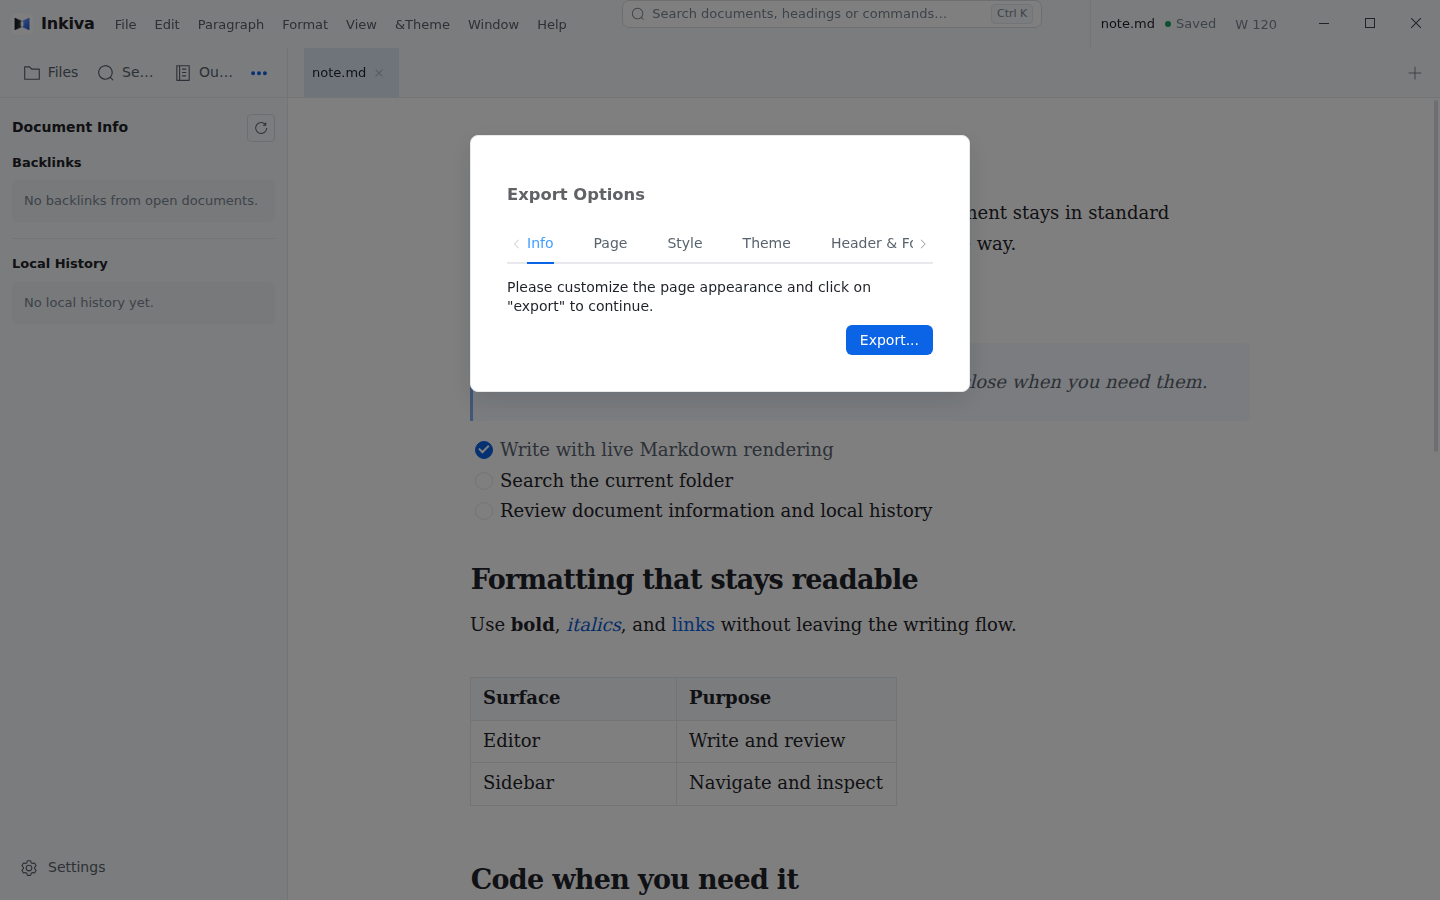
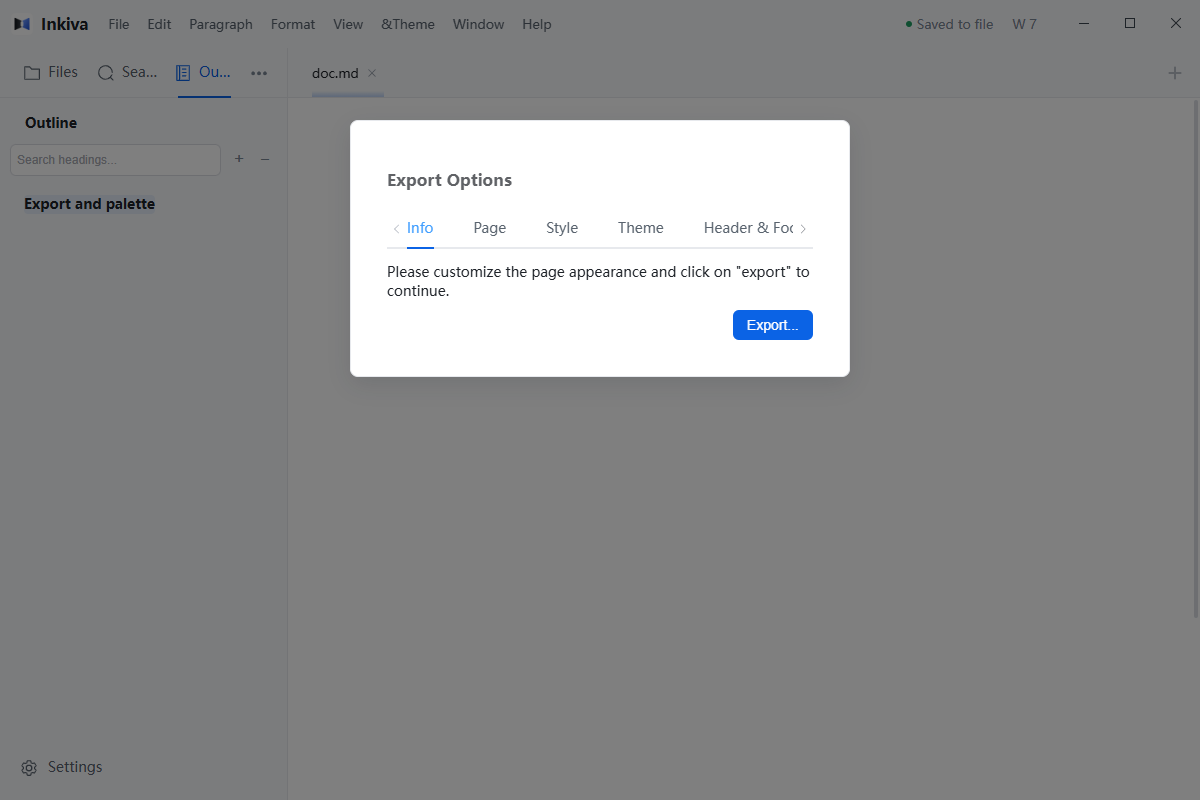
docs: complete issue 276 real Windows screenshot and interaction acceptance

diff --git a/packages/website/content/docs/end-user/BASICS.md b/packages/website/content/docs/end-user/BASICS.md
@@ -4,7 +4,7 @@
 
 Inkiva is a document-first Markdown editor. It opens ordinary CommonMark/GFM files and folders, and its preview editor keeps most Markdown punctuation out of the way while you write. When the application starts without a restored session, the welcome surface offers **Recent Documents**, **New File**, and **Open file**.
 
-![Inkiva welcome surface with Recent Documents, New File, and Open file](../assets/inkiva-default.png)
+![Real Windows Inkiva v0.6.0 welcome surface with the recent-folder and file-opening controls](../assets/inkiva-default.png)
 
 Use **Search** in the sidebar for workspace content, or **Quick Open** (<kbd>CmdOrCtrl</kbd>+<kbd>P</kbd>) to find documents in the opened folder. In an empty paragraph, type `/` to open the quick-insert menu; choose a heading, list, quote, table, or another supported block.
 
@@ -27,7 +27,7 @@ The Files, Search, and Document Info panels are shown below.
 
 ![Inkiva Files sidebar showing a folder tree and Opened Files](../assets/inkiva-files.png)
 
-![Inkiva Search sidebar for searching the opened folder](../assets/inkiva-search.png)
+![Real Windows Inkiva v0.6.0 Search sidebar with an active Markdown document](../assets/inkiva-search.png)
 
 ![Actual Windows v0.6.0 Document Info sidebar showing a backlink, a missing Markdown target and Local History](../assets/inkiva-document-info.png)
 
@@ -37,7 +37,9 @@ Each open document can appear in a tab. Drag tabs to reorder them, use the tab c
 
 ### Quick Open
 
-**Quick Open** (<kbd>CmdOrCtrl</kbd>+<kbd>P</kbd>) finds Markdown files in the opened folder and already-open documents. The **Search** sidebar supports in-folder content searching, while **Outline** navigates headings in the active document.
+**Quick Open** (<kbd>CmdOrCtrl</kbd>+<kbd>P</kbd>) finds Markdown files in the opened folder and already-open documents. The **Search** sidebar supports in-folder content searching, while **Outline** navigates headings in the active document. For searchable editor commands, use **View → Command Palette**; the previous titlebar search box is no longer a reliable entry point in the Windows v0.6.0 UI.
+
+![Real Windows v0.6.0 Command Palette opened from View, listing available file and editor commands](../assets/inkiva-command-palette.png)
 
 ### Editor modes
 
@@ -85,7 +87,11 @@ For detailed editing and repair steps, see [Editing in depth](EDITING.md).
 
 ## Outline, document history and recovery
 
-The **Outline** sidebar follows headings in the active document. Click a heading to navigate, or use keyboard focus and arrow-key navigation; press <kbd>Enter</kbd> to activate the focused heading. On long documents, only the relevant outline rows may be mounted at once, but keyboard navigation remains available without moving the document until you choose a heading.
+The **Outline** sidebar follows headings in the active document. Click a heading to navigate, or use keyboard focus and arrow-key navigation; press <kbd>Enter</kbd> to activate the focused heading. On long documents, only the relevant outline rows may be mounted at once. Focus the **Outline tree container** (the keyboard focus owner), then use **Arrow Up/Down**, **Home/End**, and **Enter**. Focusing a virtualized individual heading row is not equivalent to keyboard-focusing the tree itself. In the tested 360-heading document, **End** and **Arrow Up** revealed the final rows while the editor remained at scroll position 0; **Enter** then navigated to the chosen heading.
+
+![Real Windows v0.6.0 outline keyboard focus on a heading near the end of a 360-heading document, while the editor stays at the beginning](../assets/inkiva-outline-keyboard.png)
+
+![Real Windows v0.6.0 document scrolled to a distant heading only after activating it with Enter](../assets/inkiva-outline-activated.png)
 
 **More → Document Info → Local History** lets you inspect earlier local snapshots and recover content using the available preview, copy, or explicitly confirmed restore flow. Unsaved-work and crash-recovery prompts must be reviewed before replacing existing content. Local History and recovery protect local files; they are not cloud backup or multi-device sync.
 
@@ -101,4 +107,4 @@ Inkiva includes **Inkiva Light**, **Inkiva Dark**, and **Inkiva Paper**. Choose 
 
 Open **File → Preferences** or the settings control at the bottom of the sidebar. Preferences can also be edited in `preferences.json` in the [application data directory](APPLICATION_DATA_DIRECTORY.md). The settings window groups general, theme, editor, and spelling options.
 
-![Inkiva Preferences window on the General page](../assets/inkiva-settings.png)
+![Real Windows v0.6.0 Preferences dialog on the General page](../assets/inkiva-settings.png)

diff --git a/docs/engineering/ISSUE-276-DESKTOP-SCREENSHOT-AUDIT.md b/docs/engineering/ISSUE-276-DESKTOP-SCREENSHOT-AUDIT.md
@@ -66,3 +66,16 @@ Don't infer fidelity from the presence of PNG files or a green build. The old sc
 - **Workflow lesson:** the squash merge message itself inadvertently repeated the literal `[skip ci]` phrase while describing the follow-up, suppressing the intended push-triggered website deploy. The existing official website workflow was manually dispatched on `develop`, with its full checks intact; do not put CI-skip tokens in the final squash message when public site changes must be deployed.
 - **Open issue confirmation:** [#276](https://github.com/Bulls1986/Inkiva/issues/276) remains **open**, with progress comments recording evidence and remaining gaps. This PR's release does **not** imply full issue acceptance, full macOS visual qualification, confirmed saved/reopened table, completed missing-image recovery, or proven keyboard focus/no-jump in the virtualized outline.
 - **Resume:** complete the still-open real-Electron/visual items in the preceding section; replace additional website PNGs only after directly verifying staleness, and repeat the applicable docs/build/PR gates for any future changes.
+
+
+## Stage 5 — Remaining packaged Windows v0.6.0 acceptance (2026-10-30)
+
+- Environment: real installed Windows x64 Inkiva v0.6.0, same exe/asar SHA-256 above, isolated temporary profiles/files, Playwright Electron screenshots. No mockups, no private user files.
+- **Table PASS**: Shift+Enter in `Alpha` followed by `Line 2` yielded `Alpha<br>Line 2`; status became `Saved to file`; disk Markdown contained the break, and a second app process reopened the table with intact content. Earlier recovery-only uncertainty is resolved.
+- **Image PASS**: `./missing.png` showed `Load image failed`; clicking the actual image exposed `Embed Image`. Replacing the path with a real `./correct.png` reached `mu-image-success` and saved the corrected Markdown; no stranded loading placeholder.
+- **Outline PASS**: genuine 360-heading file; the focus owner is `.toc-virtualized-tree` (`role=tree`, `tabindex=0`), not virtual `treeitem` projections. With the tree focused, `End` and `ArrowUp` moved outline scroll 0 → 11718 while editor scroll remained 0. `Enter` then deliberately navigated the document to headings 354–360. Genuine screenshots capture before/after. Earlier row-focused test was an invalid driver, not product evidence.
+- **Menus PASS**: actual View → Command Palette opened searchable commands; File → Export → Export as PDF opened the real Export Options dialog with Info, Page, Style, Theme, Header & Footer, Table of Contents. Premature native menu invocation before editor initialization was non-evidence, corrected by waiting for readiness.
+- **Theme/Preferences PASS**: actual Theme menu changed Inkiva Dark and Paper; General, Editor, Theme and Spelling were captured as real Preferences windows. Prior Stage 4 already established Files, Search, Document Info, Backlinks, missing/partial/repair, and table context.
+- **Platform captions**: Windows English UI was actually exercised; macOS Command/Option differences were checked against existing OS-specific keybinding manuals, not represented as native macOS execution. Windows **and/or** macOS is the issue's platform capture requirement.
+- **Assets in this phase**: refreshed 10 genuine screenshots (welcome, Search, command palette, Export, Dark, Paper, Settings Editor/Theme/Spelling, table after save/reopen), added 4 real screenshots (Outline before/after Enter, image failure/relink); previous Stage 4 real captures remain. PNG files were only losslessly re-encoded, not AI-generated or retouched.
+- **Pending release**: website 52-page docs verification, focused tests/build, latest PR CI, squash merge, and GitHub Pages deploy. Retain Issue #276 OPEN until publication evidence has been written back; do not call a PR alone final closure.

diff --git a/packages/website/content/docs/end-user/EDITING.md b/packages/website/content/docs/end-user/EDITING.md
@@ -14,7 +14,7 @@ Inkiva updates the rendered result as you edit. The active appearance controls t
 
 In an empty paragraph, type `/` to open the quick-insert menu. Search by continuing to type, navigate with the arrow keys, and press <kbd>Enter</kbd> to insert the selected block. The menu can create headings, paragraphs, lists, task lists, quotes, tables, code blocks, front matter, thematic breaks, and supported diagram blocks.
 
-To locate a document, use **Quick Open** (<kbd>CmdOrCtrl</kbd>+<kbd>P</kbd>). Use the application's **Paragraph**, **Format** and **View** menus for their respective editing commands.
+To locate a document, use **Quick Open** (<kbd>CmdOrCtrl</kbd>+<kbd>P</kbd>). Use **View → Command Palette** to search commands such as **Export File**, **Source Code Mode**, and **Change Encoding**. The application's **Paragraph** and **Format** menus remain direct alternatives.
 
 The paragraph menu also exposes actions such as **Turn Into**, duplicate, create paragraph, and delete paragraph. These actions operate on the current block or selection.
 
@@ -32,9 +32,9 @@ Use the quick-insert menu or **Paragraph → Table** to create a Markdown table.
 
 ![Actual Windows v0.6.0 table-cell context menu showing explicit row/column actions](../assets/inkiva-table-context.png)
 
-The following screenshot captures the live editor immediately after a hard break; **it is not evidence of a completed disk save**. Save and verify the file when testing document persistence.
+The following real Windows v0.6.0 screenshot was captured **after saving, closing and reopening the Markdown file**. The test verified the on-disk cell text `Alpha<br>Line 2` and the reopened rendered table; the earlier in-editor caret assertion separately confirmed a connected text node and a visible caret rectangle.
 
-![Actual Windows v0.6.0 table cell immediately after Shift+Enter with an in-editor hard break and visible caret](../assets/inkiva-table-hardbreak.png)
+![Real Windows v0.6.0 table reopened with a persisted Shift+Enter hard break after verifying saved Markdown on disk](../assets/inkiva-table-hardbreak.png)
 
 ## Images
 

diff --git a/packages/website/content/docs/end-user/IMAGES.md b/packages/website/content/docs/end-user/IMAGES.md
@@ -30,7 +30,13 @@ For imported files, Inkiva uses collision-safe creation so repeated pastes of si
 
 Select an image in the formatted editor to access its existing image controls. Depending on the selected image, you can change its alternative text/title, replace its source using **Choose Image**, or drag the resize control. A missing image can be selected to open the edit/relink tool.
 
-- To **relink** a missing image, select a valid replacement and confirm. A failed import leaves the original Markdown intact and provides feedback so you can retry.
+- To **relink** a missing image, select the failed image. In the tested Windows v0.6.0 interface, click its image placeholder, select **Embed Image**, replace the existing relative path and confirm **Embed Image**. Other insertion modes may expose a **Choose Image** control. A failed import leaves the original Markdown intact and provides feedback so you can retry.
+
+![Real Windows v0.6.0 missing-image state showing the Load image failed placeholder and Embed Image replacement controls](../assets/inkiva-image-failure.png)
+
+![Real Windows v0.6.0 image successfully relinked to an existing local file with the updated relative Markdown path](../assets/inkiva-image-relinked.png)
+
+An isolated real-app test changed `![Broken image](./missing.png)` to `![Broken image](./correct.png)`; the image entered `mu-image-success` state and the new Markdown source was saved to disk without a permanent loading placeholder.
 - Changing only alt text or title does not require re-importing or duplicating an unchanged local file.
 - An in-progress replacement should not overwrite a newer edit made while the image operation was running.
 - Switch to **View → Source Code Mode** to inspect or edit the exact `![alt](path)` syntax if the visual preview does not resolve.

diff --git a/packages/website/content/docs/README.md b/packages/website/content/docs/README.md
@@ -4,7 +4,7 @@ Welcome to the end-user documentation of Inkiva, a document-first Markdown edito
 
 Inkiva works with ordinary CommonMark/GFM files and folders. Navigation, backlinks, local history, and recovery are assistance around the document — not a separate workspace format.
 
-The current desktop interface keeps the document at the center: a compact titlebar, optional navigation sidebar, tabs, and a focused writing surface. The screenshot set is being reconciled against real desktop builds in [Issue #276](https://github.com/Bulls1986/Inkiva/issues/276). Screenshots of the editor, Files, Document Info and Settings have been refreshed from a genuine Windows v0.6.0 English interface; other retained images may still reflect an earlier UI. Labels vary by language and operating system.
+The current desktop interface keeps the document at the center: a compact titlebar, optional navigation sidebar, tabs, and a focused writing surface. The user-guide screenshots of the editor, file navigation, Outline, command palette, PDF export, preferences, themes, tables, and image relinking have been captured from a genuine Windows Inkiva v0.6.0 desktop executable. Supporting acceptance evidence is documented under [Issue #276](https://github.com/Bulls1986/Inkiva/issues/276). Legacy decorative images may remain; labels vary with the selected UI language and operating system.
 
 ![Inkiva desktop interface with the Outline sidebar and Markdown editor](assets/inkiva-interface.png)
 

diff --git a/packages/website/content/docs/zh-CN/images.md b/packages/website/content/docs/zh-CN/images.md
@@ -20,7 +20,13 @@ Inkiva 的图片地址以普通 Markdown 保存，例如 `![图示](./assets/dia
 
 ## 替换、缩放和缺图处理
 
-选择可视编辑器中的图片，使用已有控件修改替代文字/标题、拖动缩放控制条或通过 **Choose Image** 更换源文件。图片加载失败时，可以重新选择正确的图片地址。
+选择可视编辑器中的图片，使用已有控件修改替代文字/标题、拖动缩放控制条或通过 **Choose Image** 更换源文件。图片加载失败时，可点击失败图片，切换到 **Embed Image** 输入框填写新的本地相对路径并确认。
+
+![Windows v0.6.0 图片加载失败及 Embed Image 重连入口](../assets/inkiva-image-failure.png)
+
+![重新指向有效本地图片后的实机截图](../assets/inkiva-image-relinked.png)
+
+实测将 `./missing.png` 改为 `./correct.png` 后，图片状态变为加载成功，且 Markdown 保存了新路径。
 
 导入失败应保留原始 Markdown，避免留下永久 `loading-*` 占位符；在进行中的替换操作不应覆盖后续用户的编辑。
 

diff --git a/packages/website/content/docs/end-user/EXPORT.md b/packages/website/content/docs/end-user/EXPORT.md
@@ -2,7 +2,9 @@
 
 Inkiva can export the current Markdown document as a PDF or HTML file, or send it to the system print dialog. Open **File → Export** and choose the output format.
 
-![Inkiva Export Options dialog with page, style, theme, and header and footer tabs](../assets/inkiva-export.png)
+![Real Windows v0.6.0 PDF Export Options dialog with Info, Page, Style, Theme, Header and Footer, and Table of Contents tabs](../assets/inkiva-export.png)
+
+The Windows v0.6.0 export dialog also includes an **Info** tab and a **Table of Contents** tab. The export options preview is separate from committing the final output-file save dialog.
 
 ## Page options
 

diff --git a/packages/website/content/docs/zh-CN/export.md b/packages/website/content/docs/zh-CN/export.md
@@ -9,6 +9,8 @@ Inkiva 可以将当前 Markdown 文档导出为 **PDF** 或 **HTML**，也可以
 - **Theme**：导出时的页面主题，与应用界面的 Light/Dark/Paper 外观不同。
 - **Header and Footer**：可选择页眉、页脚布局并输入文字；当前不提供自动页码功能。
 
-![导出选项窗口](../assets/inkiva-export.png)
+实机窗口还包含 Info、Table of Contents 标签页。
+
+![Windows v0.6.0 PDF 导出选项实机截图](../assets/inkiva-export.png)
 
 查看[导出主题](./export-themes.md)和[英文导出说明](https://www.inkiva.net/docs/export/)。

diff --git a/packages/website/content/docs/end-user/SPELLING.md b/packages/website/content/docs/end-user/SPELLING.md
@@ -2,7 +2,7 @@
 
 Inkiva can check spelling as you type and offer corrections from the active dictionary. Spell checking is disabled by default. Enable it in **Preferences → Spelling**, then choose the default language.
 
-![Inkiva Preferences window on the Spelling page](../assets/inkiva-spelling-settings.png)
+![Real Windows v0.6.0 Preferences window on the Spelling page](../assets/inkiva-spelling-settings.png)
 
 ## Features
 

diff --git a/packages/website/content/docs/end-user/THEMES.md b/packages/website/content/docs/end-user/THEMES.md
@@ -28,4 +28,4 @@ Markdown styling and application chrome use separate design layers, so the writi
 
 The Theme preferences page provides a visual preview of the three built-in appearances:
 
-![Inkiva Theme preferences with Light, Dark, and Paper previews](../assets/inkiva-settings-theme.png)
+![Real Windows v0.6.0 Theme preferences with Light, Dark, and Paper previews](../assets/inkiva-settings-theme.png)
